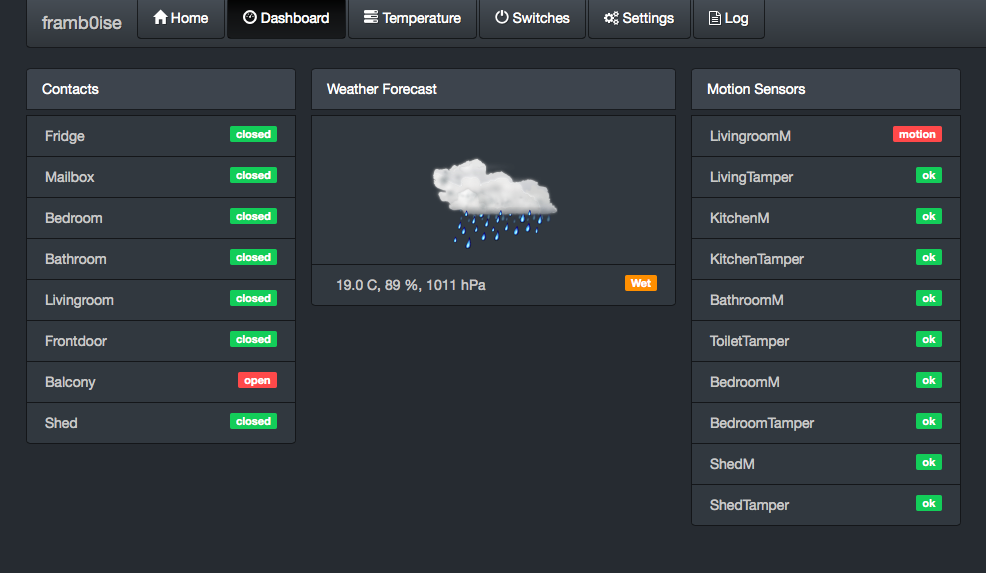
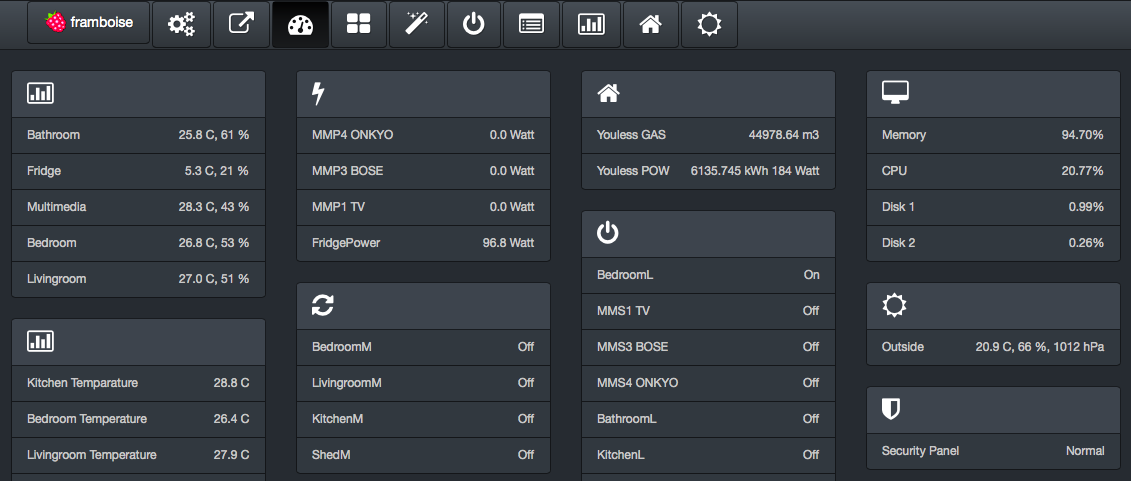
iconized tabbar & new screenshots

diff --git a/js/domoticz.js b/js/domoticz.js
@@ -209,6 +209,7 @@
 		myTabs.Links = 1
 		myTabs.Dashboard = 1
 		myTabs.Rooms = 1
+		myTabs.Magic = 1
 		
 				
 
@@ -222,6 +223,55 @@
 			if(!$("#"+tabid).length){
 				tabid = index.replace("Enable", "")
 				tabtext = index.replace("EnableTab", "")
+				
+				switch(tabtext){
+					
+					case "Setup":
+					var tabclass = "fa fa-gears"
+					break;
+					
+					case "Links":
+					var tabclass = "fa fa-external-link"
+					break;
+					
+					case "Dashboard":
+					var tabclass = "fa fa-dashboard"
+					break;
+					
+					case "Rooms":
+					var tabclass = "fa fa-th-large"
+					break;
+					
+					case "Magic":
+					var tabclass = "fa fa-magic"
+					break;
+					
+					case "Lights":
+					var tabclass = "fa fa-power-off"
+					break;
+					
+					case "Scenes":
+					var tabclass = "fa fa-list-alt"
+					break;
+					
+					case "Temp":
+					var tabclass = "fa fa-bar-chart-o"
+					break;
+					
+					case "Utility":
+					var tabclass = "fa fa-home"
+					break;
+					
+					case "Weather":
+					var tabclass = "fa fa-sun-o"
+					break;
+					
+					default:
+					var tabclass = "fa fa-question"
+					break
+					
+				}
+				
 						
 				$("<li></li>")
 					.attr("id",tabid)
@@ -231,7 +281,8 @@
 					.appendTo("#"+tabid)
 					.attr("href", "#tab-"+tabtext)
 					.attr("data-toggle", "tab")
-					.text(tabtext)
+					.attr("title", tabtext)
+					.addClass(tabclass)
 					
 				$("<div></div>")
 					.attr("id", "tab-"+tabtext)
@@ -284,6 +335,7 @@
 		SetupTabs.Main = 1
 		SetupTabs.Theme = 1
 		SetupTabs.Variables = 1
+		SetupTabs.Links = 1
 		SetupTabs.Magical = 1
 		SetupTabs.Unicorns = 1
 		SetupTabs.Rainbows = 1
